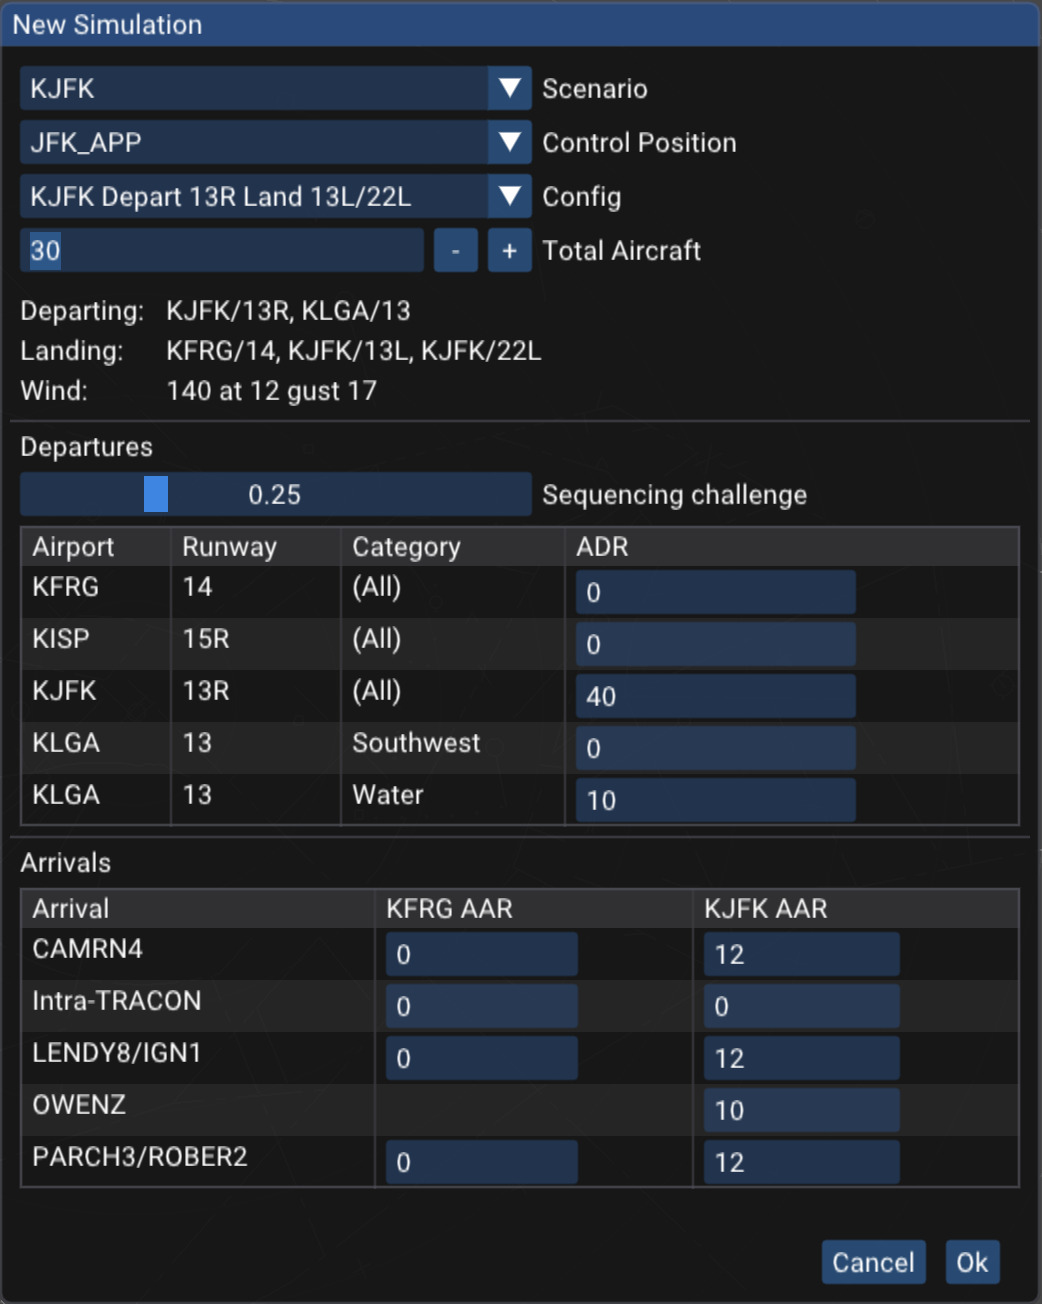
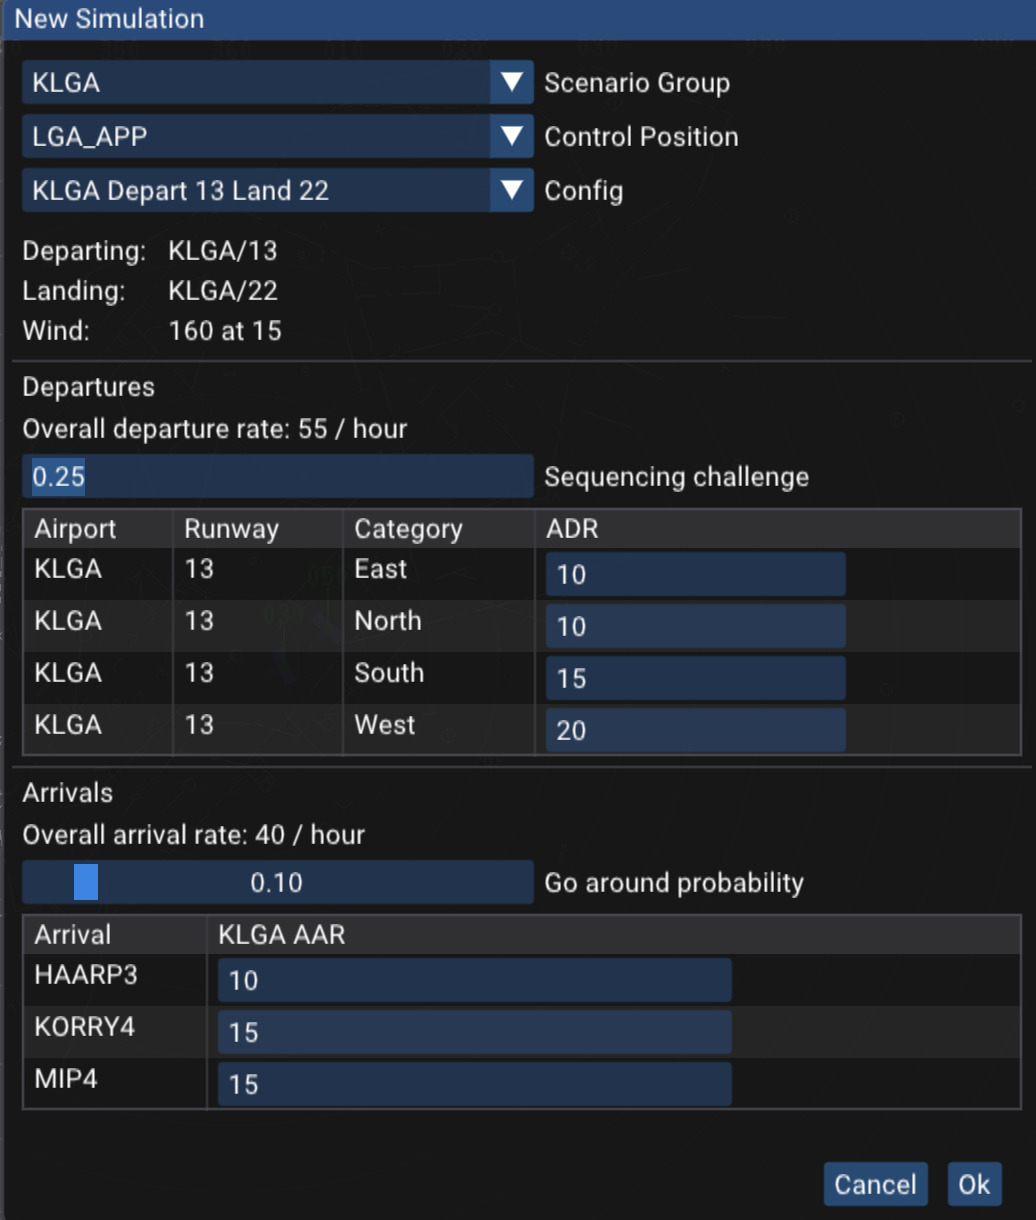
v0.8.0

Changed region(s): [[0.0, 0.0, 1.0, 1.0]]

diff --git a/index.html b/index.html
@@ -99,21 +99,21 @@
 	    <h1 class="docs-heading">Using Vice <span class="docs-time">Last updated: 2023-04-08</span></h1>
 
 	    <section class="docs-intro">
-	      <p><i>vice</i> is (now) an air traffic control simulator, focused on TRACON.
+	      <p><i>vice</i> is an air traffic control simulator, focused on TRACON.
                 Its goal is to provide a training experience similar to a VATSIM sweatbox with an instructor, 
                 just without the instructor, making it possible to better
                 prepare for sweatboxes and to practice vectoring and traffic handling techniques without being on the network.
                 It presents a STARS-like interface, but with simulated traffic and other controllers.
               </p>
               <p><i>vice</i> currently supports departure and arrival control
-                scenarios in the N90 TRACON (KEWR, KJFK and KPHL, Liberty Departure) and
-                in the F11 TRACON (KJAX, KMCO, KSFB, KISM, KORL...).
+                scenarios in the N90 TRACON (KEWR, KJFK, KLGA, KPHL, Liberty Departure) and
+                in the F11 TRACON (KJAX, KMCO, KSFB, KISM, KORL, ...).
                 Adding scenarios at more airports is a matter of writing JSON configuration files that describe them;
                 see <a href="#section-facility-engineering">below</a> for documentation about how scenarios are described
-                and please join the <a href="https://discord.gg/y993vgQxhY">vice discord</a> if you'd like to contribute!
+                and please join the <a href="https://discord.gg/y993vgQxhY"><i>vice</i> discord</a> if you'd like to contribute!
               </p>
               <p>
-                There is a short <a href="https://youtu.be/MNFpFaT1k7s">video overview</a> that gives a tour of <i>vice</i>.
+                There is a short <a href="https://youtu.be/MNFpFaT1k7s">video overview</a> that gives a tour of <i>vice</i>. (Note: this video was recorded with an older version of <i>vice</i>, so some details are different in the latest version.)
               </p>
 	    </section><!--//docs-intro-->
 	  </header>
@@ -126,49 +126,65 @@
               The appearance of <i>vice</i> can be similarly configured using the DCB buttons at the top of the window.
             </p>
             <p>
-              When <i>vice</i> is launched, a window is shown for configuring the simulation.
+              The first time you launch <i>vice</i>, a window is shown for configuring the simulation.
+              (After the first time, the window can be brought up by clicking the "replay" button in the menubar: <i class="fas fa-redo"></i>.)
               A number of scenarios are available, some departure-only and
               some including both departures and arrivals.
-              Here is the window for KJFK:
+              Here is the configuration window for KLGA:
             </p>
             <div class="text-center">
               <img src="config.jpg" srcset="config-2x.jpg 2x" width="517" height="593" class="img-fluid" alt="configuration dialog box">
             </div>
             <br>
             <p>
-              Scenarios may offer one or more control positions; KJFK offers both approach and departure.
+              Scenarios may offer one or more control positions; for example, KLGA offers both approach and departure.
               Once a control position is chosen, you can choose a specific runway configuration.
               </p>
             <p>
-              In addition to the total number of aircraft to launch in the simulation, it is possible to set the average departure rate (ADR)
+              In the configuration window, you can set the average departure rate (ADR)
               for all of the airports that may have departures in the scenario as well as the average arrival rate (AAR) for all of the
-              active arrival airports.
-              (Here, we have the option of also having arrivals to Republic,
-              KFRG, a JFK satellite airport.)
-              Both of these rates are specified in terms of aircraft per hour, so an ADR of 30 corresponds to an aircraft  departing
+              arrival airports.
+              (The KLGA scenario only includes Laguardia Airport, though other scenarios include both a primary airport as well as satellites.)
+              Both of these rates are specified in terms of aircraft per hour, so an ADR of 30 corresponds to one aircraft departing
               every two minutes (on average).
               If you'd like an arrival-only scenario, for example, just set all of the departure rates to zero.
+            </p>
+            <p>
               The "Sequencing challenge" slider controls how challenging the departure sequence is&mdash;the higher it is, the more likely it is
               that successive departures will be to the same gate or to the same fix.
+              For arrivals, the "Go around probability" slider allows setting the probability that each arrival goes around.
             </p>
             <p>
               After you have configured the simulation, click "Ok" and you will have a STARS scope and flight strip window to work with.
               Use the usual STARS commands as appropriate (to initiate track, accept handoffs, handoff to other controllers, etc.),
               and the additional <a href="#commands">ATC commands below</a> to issue control commands to aircraft.
             </p>
-            <p>
-              During the simulation, the "Settings" menu offers a few options, including pausing and resuming.
-              If "Restart..." is selected, the configuration window is shown again, allowing a new scenario to be selected.
-              Finally, "Settings..." allows configuring a number of details, including the flight strips shown at the right and
-              in which situations sounds are played (and which sounds to play for them.)
-              </p>
-            <div class="text-center">
-              <img src="menu.jpg" srcset="menu-2x.jpg 2x" width="133" height="107" class="img-fluid" alt="configuration dialog box">
-            </div>
-            <br>
             <p>To adjust the amount of space used for flight strips, right click the line separating the flight strips from the
               radar window and drag left or right with your mouse.
+            </p>
+            <p>
+              A number of buttons are available in the menu bar at the top of the window:
+              <ul>
+                <li> <i class="fas fa-pause-circle"></i> / <i class="fas fa-play-circle"></i>: pause or resume the simulation.</li>
+                <li> <i class="fas fa-redo"></i>: opens the window to select a new scenario and set its parameters.</li>
+                <li> <i class="fas fa-cog"></i>: open a window that allows changing various settings. The most useful one is the simulation rate: you can speed up time during boring times or to increase the challenge.</li>
+                <li> <i class="fas fa-question-circle"></i>: open this webpage to review <i>vice</i>'s documentation</li>
+                <li> <i class="fas fa-info-circle"></i>: display information about the version of <i>vice</i> you have installed.</li>
+                <li> <i class="fab fa-discord"></i>: join the <i>vice</i> Discord.</li>
+              </ul>
+            </p>
+            <p>
+              When you exit <i>vice</i>, it remembers everything going on&mdash;all of the aircraft in flight, the instructions they have been given, etc.
+              The next time you launch <i>vice</i>, it loads all of that back in and you can continue where you left off.
+              If you'd like to start something new, just click <i class="fas fa-redo"></i> and configure a new scenario.
+            </p>
+            <p>
+              When <i>vice</i> is paused, you can hover the mouse above a radar track to see information about the instructions the aircraft has been given so far&mdash;for example, altitude and speed assignments, whether it has been sent direct to a fix, the approach it has been assigned, etc.  An example is shown below.  This information is especially useful when resuming a <i>vice</i> session after you have been away from it for a while.
               </p>
+            <div class="text-center">
+              <img src="hover-info.jpg" srcset="hover-info-2x.jpg 2x" width="255" height="140" class="img-fluid" alt="configuration dialog box">
+            </div>
+            <br>
           </section>
           
 	  <section class="docs-intro" id="commands">
@@ -245,14 +261,14 @@
                     <td><code>E</code><i>approach</i></td>
                     <td>Tells the aircraft to expect the specified
                     approach. This command must be used before an aircraft
-                    is cleared for an approach.  It also adds the approach
+                    is cleared for an approach and it also adds the approach
                     fixes to the end of the aircraft's route.</td>
                     <td><code>EI2L</code></td>
                   </tr>
                   <tr>
                     <td><code>C</code><i>approach</i></td>
                     <td>Clears the aircraft for the specified
-                    approach. The aircraft must be told to expect the approach before it is cleared for it.</td>
+                    approach. The aircraft must have been told to expect the approach before it is cleared for it.</td>
                     <td><code>CI2L</code></td>
                   </tr>
                   <tr>
@@ -716,6 +732,39 @@
                 </tbody>
                 </table>
 
+            <h3>KLGA</h3>
+            <p>
+              Scenarios are available for both departure and arrival
+              configurations at LGA. The following approaches are available:
+            </p>
+
+              <table class="table">
+                <thead>
+                  <tr>
+                    <th>Runway</th>
+                    <th>ILS</th>
+                    <th>RNAV</th>
+                  </tr>
+                </thead>
+                <tbody>
+                  <tr>
+                    <td>4</td>
+                    <td><code>I4</code></td>
+                    <td>&mdash;</td>
+                  </tr>
+                  <tr>
+                    <td>22</td>
+                    <td><code>I22</code></td>
+                    <td>&mdash;</td>
+                  </tr>
+                  <tr>
+                    <td>31</td>
+                    <td>&mdash;</td>
+                    <td><code>R31</code></td>
+                  </tr>
+                </tbody>
+                </table>
+
             <h3>KPHL</h3>
 
             <p><i>vice</i> offers scenarios at KPHL for both West and East ops.
@@ -790,7 +839,7 @@
             <h1 class="docs-heading">Installation</h1>
 
             <section class="docs-intro">
-              <p>Installing <i>vice</i> is straightforward, at least on Windows and Macs; on Linux, more work is needed.
+              <p>Installing <i>vice</i> is straightforward, at least on Windows and Macs; on Linux, you need to do a little more work.
               </p>
             </section><!--//docs-intro-->
           </header>
@@ -810,7 +859,7 @@
                 <p>Your browser may warn about the installer being from an unknown publisher and when you run the installer, Windows will put up a window informing you that it has protected your PC and prevented the installer from running. Click "More Info" and then "Run anyway" to proceed with installation.</p>
               </div><!--//callout-block-->
             </div><!--//content-->
-            <a href="https://github.com/mmp/vice/releases/download/v0.6.6/Vice-v0.6.6-installer.msi" class="btn btn-primary"><i class="fas fa-download me-2"></i> Download Vice v0.6.6 for Windows</a>
+            <a href="https://github.com/mmp/vice/releases/download/v0.8.0/Vice-v0.8.0-installer.msi" class="btn btn-primary"><i class="fas fa-download me-2"></i> Download Vice v0.8.0 for Windows</a>
           </section><!--//section-->
           
           <section class="docs-section" id="install-mac">
@@ -819,7 +868,7 @@
             <p>On a Mac, download the <i>zip</i> file below; it contains a universal binary that runs
               on both Intel and Apple CPUs. Note that MacOS Big Sur or a more recent version of OSX is required.
               After opening the <i>zip</i> file, drag <i>Vice.app</i> to your <i>Applications</i> folder to install it.</p>
-            <a href="https://github.com/mmp/vice/releases/download/v0.6.6/Vice-v0.6.6-osx.zip" class="btn btn-primary"><i class="fas fa-download me-2"></i> Download Vice v.0.6.6 for Mac</a>
+            <a href="https://github.com/mmp/vice/releases/download/v0.8.0/Vice-v0.8.0-osx.zip" class="btn btn-primary"><i class="fas fa-download me-2"></i> Download Vice v.0.8.0 for Mac</a>
           </section><!--//section-->
 
           <section class="docs-section" id="install-linux">
@@ -864,7 +913,13 @@ how it simulates aircraft or the STARS interface.
               <li>0.6.4: Fixed a bug with intercepting the localizer that occasionally led to aircraft hanging in the air for a while
                 before proceeding.</li>
               <li>0.6.5: Fixed <emph>another</emph> bug with intercepting the localizer.</li>
-              <li>0.6.6: Small KJAX scenario fixes and added ISP and HVN arrivals/departures to the JFK scenario.</li>
+              <li>0.6.6: Small KJAX scenario fixes and added ISP and HVN
+                arrivals/departures to the JFK scenario.</li>
+              <li>0.7.0: Added LGA scenarios (thanks to Arya T!), and various
+                small bug fixes.</li>
+              <li>0.8.0: When you quit vice, now it remembers all of the aircraft; when you launch it again, you can resume right where you left off.
+                When the sim is paused, hovering the mouse on a radar track displays information about its routing and assignments.
+                Many additional small bugfixes.
             </ul>
 
           </section><!--//section-->
@@ -1182,6 +1237,11 @@ how it simulates aircraft or the STARS interface.
                 </td>
               </tr>
               <tr>
+                <td>"range"</td>
+                <td>Number</td>
+                <td>Default radar scope center range in nautical miles. If unspecified, a 50 mile range is the default.</td>
+              </tr>
+              <tr>
                 <td>"scenarios"</td>
                 <td>Object</td>
                 <td>This defines all of the ATC scenarios that are available in the scenario group. See the <a href="#fe-scenarios">scenarios section</a> for details.</td>
@@ -1236,6 +1296,7 @@ how it simulates aircraft or the STARS interface.
                   Each approach is then defined by the following members:
                   <ul>
                     <li>"full_name": a string giving the full name of the approach (e.g., "RNAV Z Runway 13L")</li>
+                    <li>"runway": a string describing the runway the approach ends at (e.g., "13L")</li>
                     <li>"type": a string indicating the type of the approach; it must be either "ILS" or "RNAV"</li>
                     <li>"waypoints": an array of one or more strings giving the approach's route.</li>
                   </ul>
@@ -1415,7 +1476,9 @@ how it simulates aircraft or the STARS interface.
               <tr>
                 <td>"runway_waypoints"</td>
                 <td>Object</td>
-                <td>This specifies runway-specific waypoints, if applicable.  See example below.</td>
+                <td>This specifies runway-specific waypoints.  After an approach is assigned to an aircraft, the corresponding
+                  runway waypoints are added to its route. Note that the first waypoint in each entry in "runway_waypoints"
+                  must match the last waypoint in "waypoints". (See the example below.)</td>
               </tr>
               <tr>
                 <td>"speed_restriction"</td>
@@ -1466,14 +1529,21 @@ how it simulates aircraft or the STARS interface.
 
             <p>The "runway_waypoints" member can be used for STARs that have different routes depending on the runway.
               When the user instructs the aircraft to expect a particular approach then the corresponding waypoints are
-              added to its route. As an example, here are some of the entries for the JIIMS3 arrival at KPHL:
+              added to its route. As an example, the specification of the KPHL <a href="https://aeronav.faa.gov/d-tpp/2305/00320JIIMS.PDF">JIIMS4 arrival</a>
+              starts with the following string for "waypoints": "HEKMN N039.27.43.645,W074.56.38.400 @ JIIMS@a8000".
+              (The second point is used to set the handoff point to be between HEKMN and JIIMS.)
+              It then has the following "runway_waypoints", corresponding to the runway-specific routes.
+              Note that all start with JIIMS, the same fix at the end of "waypoints".
             </p>
             <pre>
   "runway_waypoints": {
-    "27R": "HEKMN N039.27.43.645,W074.56.38.400 @ JIIMS@a8000 BEELZ WOJIK@s190 PSOUT #87",
-    "35": "HEKMN N039.27.43.645,W074.56.38.400 @ JIIMS@a8000 SNEDE",
-    "9L": "HEKMN N039.27.43.645,W074.56.38.400 @ JIIMS@a8000 TLUKS CHEAZ@s190 STAYK #266",
-  }
+    "27L": "JIIMS@a8000 ZMRMN CHPMN PSOUT MKORD #87",
+    "27R": "JIIMS@a8000 ZMRMN CHPMN PSOUT MKORD #87",
+    "17": "JIIMS@a8000 SNEDE #312",
+    "35": "JIIMS@a8000 SNEDE #312",
+    "9L": "JIIMS@a8000 WUDRR WEVVE ERNYY #268",
+    "9R": "JIIMS@a8000 WUDRR WEVVE ERNYY #268"
+  },
             </pre>
             
           </section><!--//section-->
